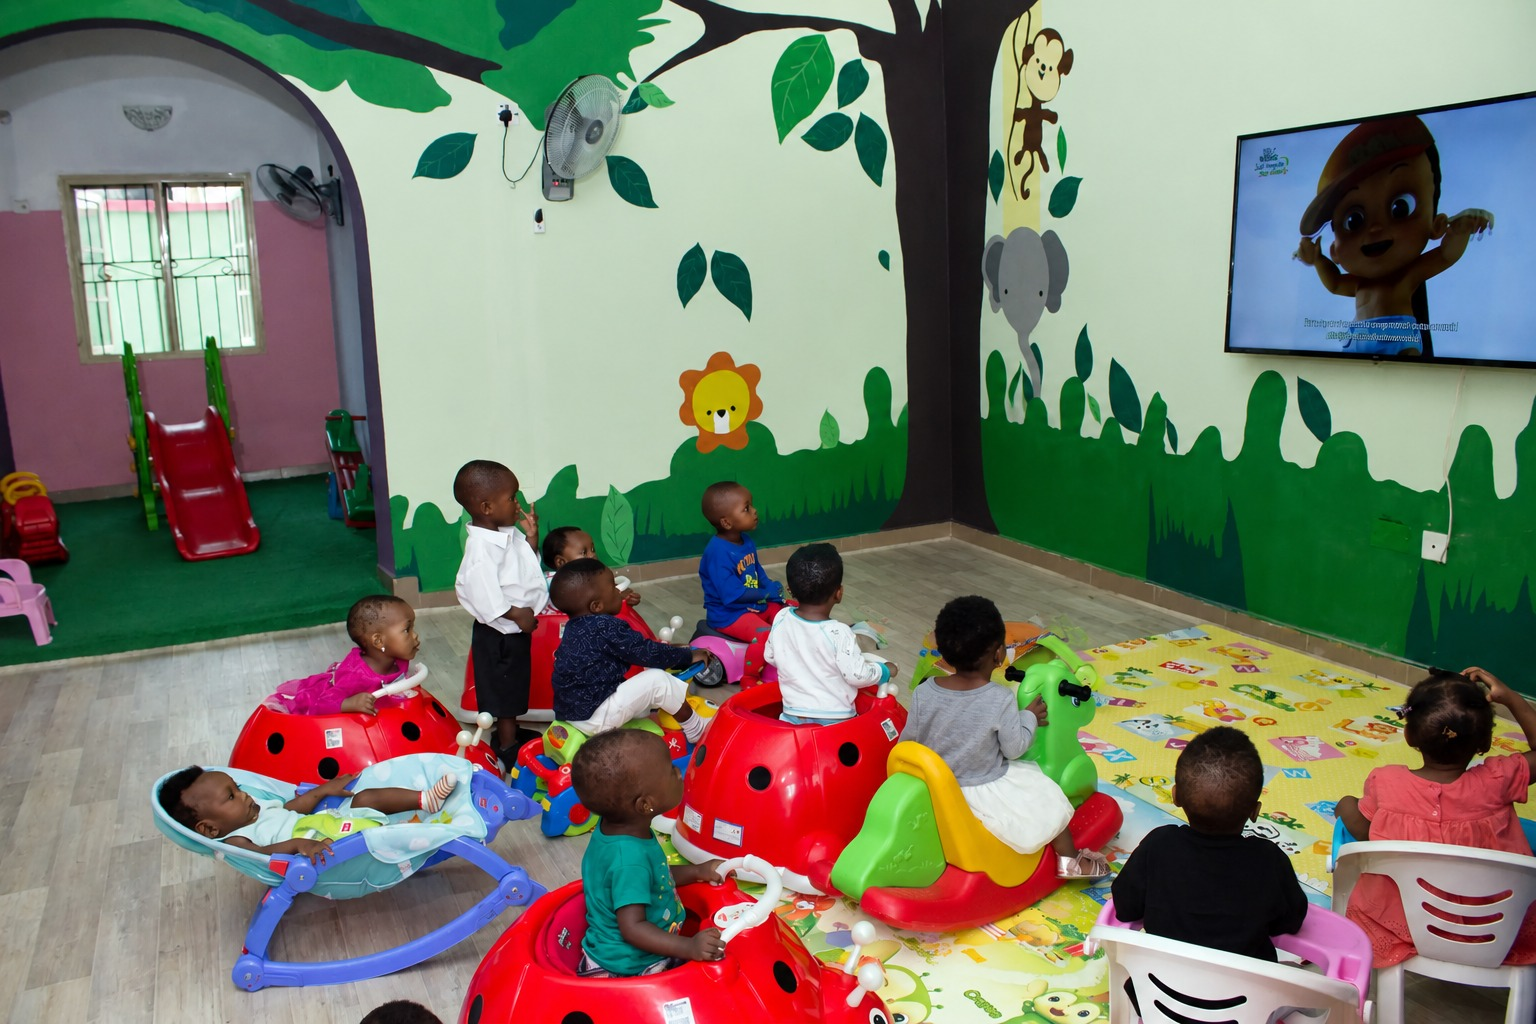
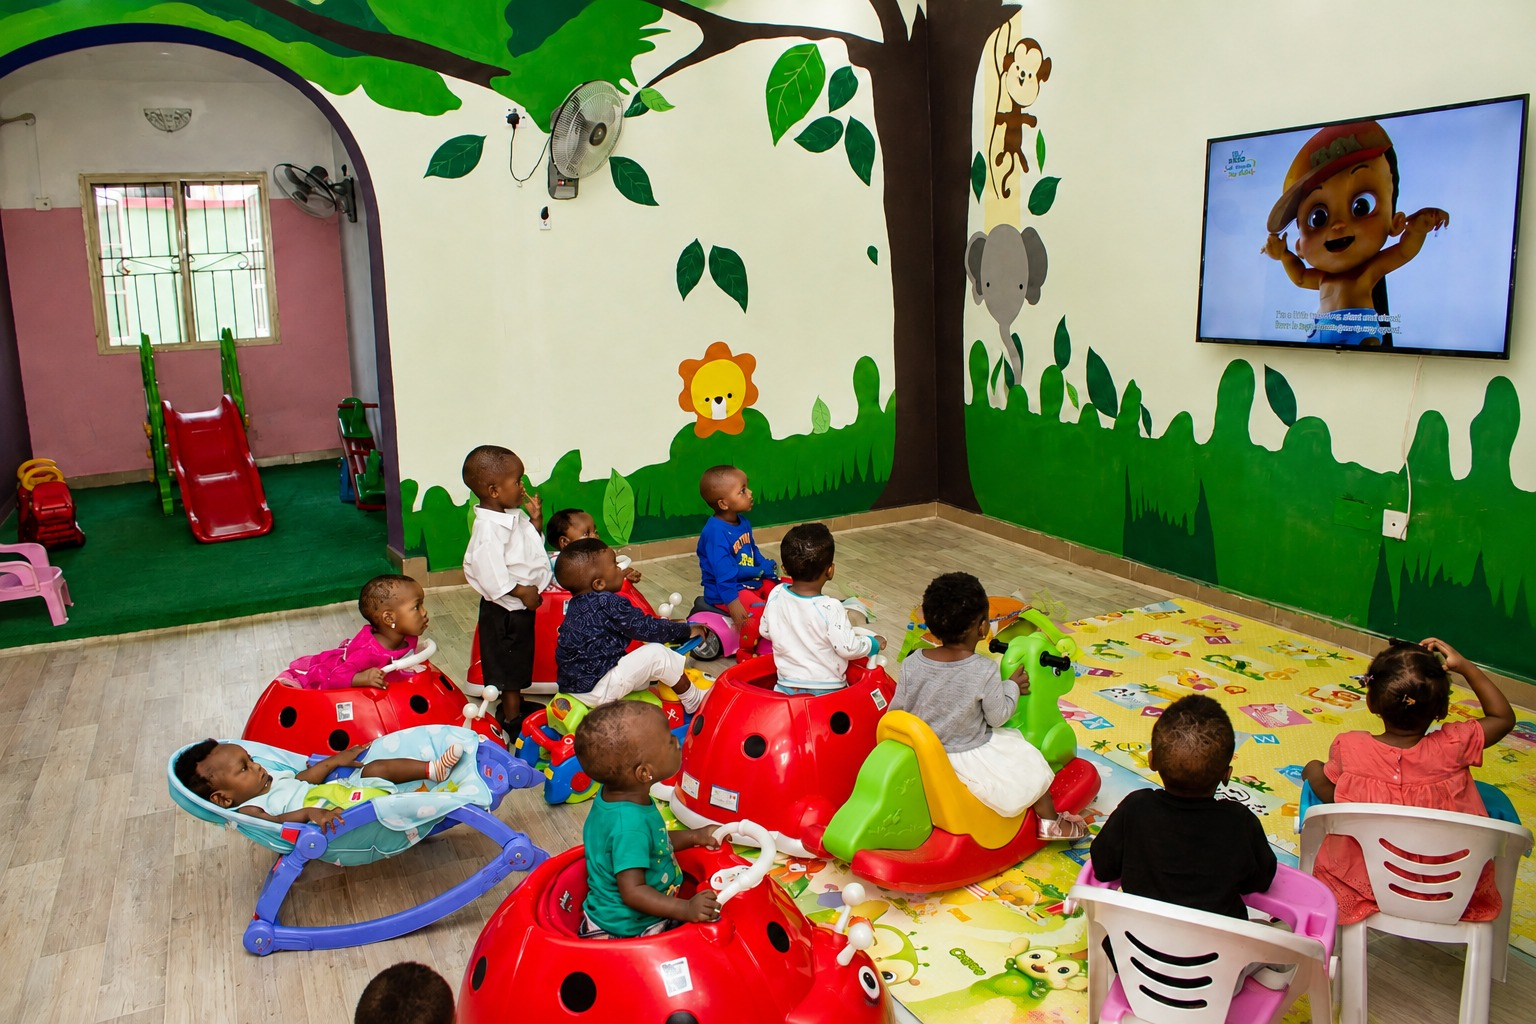
fix footer links

diff --git a/app/components/footer/Footer.tsx b/app/components/footer/Footer.tsx
@@ -72,20 +72,20 @@ const Footer = () => {
                     </Link>
                   </li>
                   <li>
-                    <Link className="a" href="/">
+                    <Link className="a" href="/admission">
                       <i className="fa fa-angle-right" />
                       Admission
                     </Link>
                   </li>
 
                   <li>
-                    <Link className="a" href="/">
+                    <Link className="a" href="/application">
                       <i className="fa fa-angle-right" />
                       Application Form
                     </Link>
                   </li>
                   <li>
-                    <Link className="a" href="/about">
+                    <Link className="a" href="/ils">
                       <i className="fa fa-angle-right" />
                       About ILS
                     </Link>
@@ -98,14 +98,6 @@ const Footer = () => {
                     </Link>
                   </li>
                 </ul>
-                {/* <ul className="sitemap">
-                  <li>
-                    <Link className="a" href="/contact">
-                      <i className="fa fa-angle-right" />
-                      Contact
-                    </Link>
-                  </li>
-                </ul> */}
               </div>
             </div>
             <div className="col-lg-3 col-md-6">
